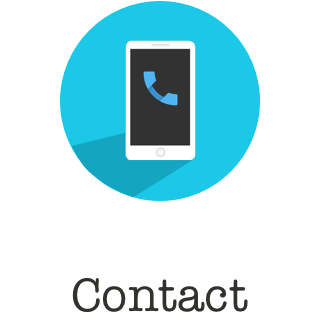
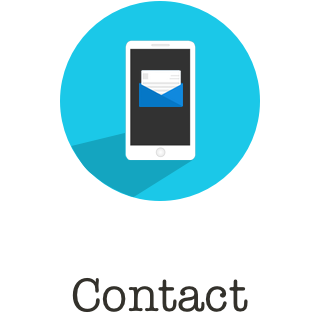
create mail button

Changed region(s): [[0.4375, 0.216, 0.5938, 0.3395]]

diff --git a/public/styles.css b/public/styles.css
@@ -234,7 +234,7 @@ img#name{
   width: 100%;
   height: 100%;
   padding: 0;
-  background-color: #AFFF3F;
+  background-color: #B4FF6B;
   text-align: center;
   overflow: auto;
 }
@@ -266,53 +266,23 @@ img#name{
   overflow: auto;
 }
 
-.contact-container{
-  position: relative;
-  display: block;
-  width: 100%;
-  margin: 50px auto;
-}
-
-.contact-form{
-  width: 100%;
+#mail-message{
+  position: absolute;
+  top: 60%;
+  width: 20%;
+  left: 40%;
+  font-size: 30px;
   color: white;
-  text-shadow: 2px 2px #444444;
-  font-size: 1.5em;
+  text-shadow: 2px 2px #7B7B7B;
 }
 
-h4{
-  font-size: 3em;
-  color: white;
-  text-shadow: 2px 2px #444444;
-}
-
-input{
-  width: 400px;
-  margin: 0;
-  padding: 0;
-  color: black;
-  border: none;
-  box-shadow: 2px 2px #444444;
-  outline: none;
-}
-
-textarea{
-  position: relative;
-  margin-left: 5px;
-  width: 400px;
-  height: 200px;
-  color: black;
-  border: none;
-  box-shadow: 2px 2px #444444;
-  resize: none;
-}
-
-input#submit{
-  width: 197px;
-  background-color: white;
-}
-
-input#reset{
-  width: 197px;
-  background-color: white;
+#sendMail{
+  position: absolute;
+  width: 500px;
+  height: auto;
+  left: 50%;
+  top: 40%;
+  transform: translate(-50%, -50%);
+  border-radius: 50%;
+  box-shadow: 5px 5px #3E3E3F;
 }

diff --git a/index.html b/index.html
@@ -100,23 +100,10 @@
 
   <div class="contact-section">
     <img src="./public/images/x.png" class="x-icon">
-    <div class="contact-container">
-      <h4> Contact Me </h4>
-      <form action="#" method="post" class="contact-form">
-        Your name<br>
-        <input type="text" name="cf_name"><br>
-        Your e-mail<br>
-        <input type="text" name="cf_email"><br><br>
-        Subject<br>
-        <input type="text" name="cf_subject"><br>
-        Message<br>
-        <textarea name="cf_message"></textarea>
-        <br>
-        <input type="submit" value="Send" id="submit">
-        <input type="reset" value="Clear" id="reset">
-      </form>
-    </div>
+    <a href="mailto:ddlee.907@gmail.com"><img id="sendMail" src="./public/images/mail-icon.png"></a>
+    <p id="mail-message">Click to Email</p>
   </div>
+
 
 </section>
 
